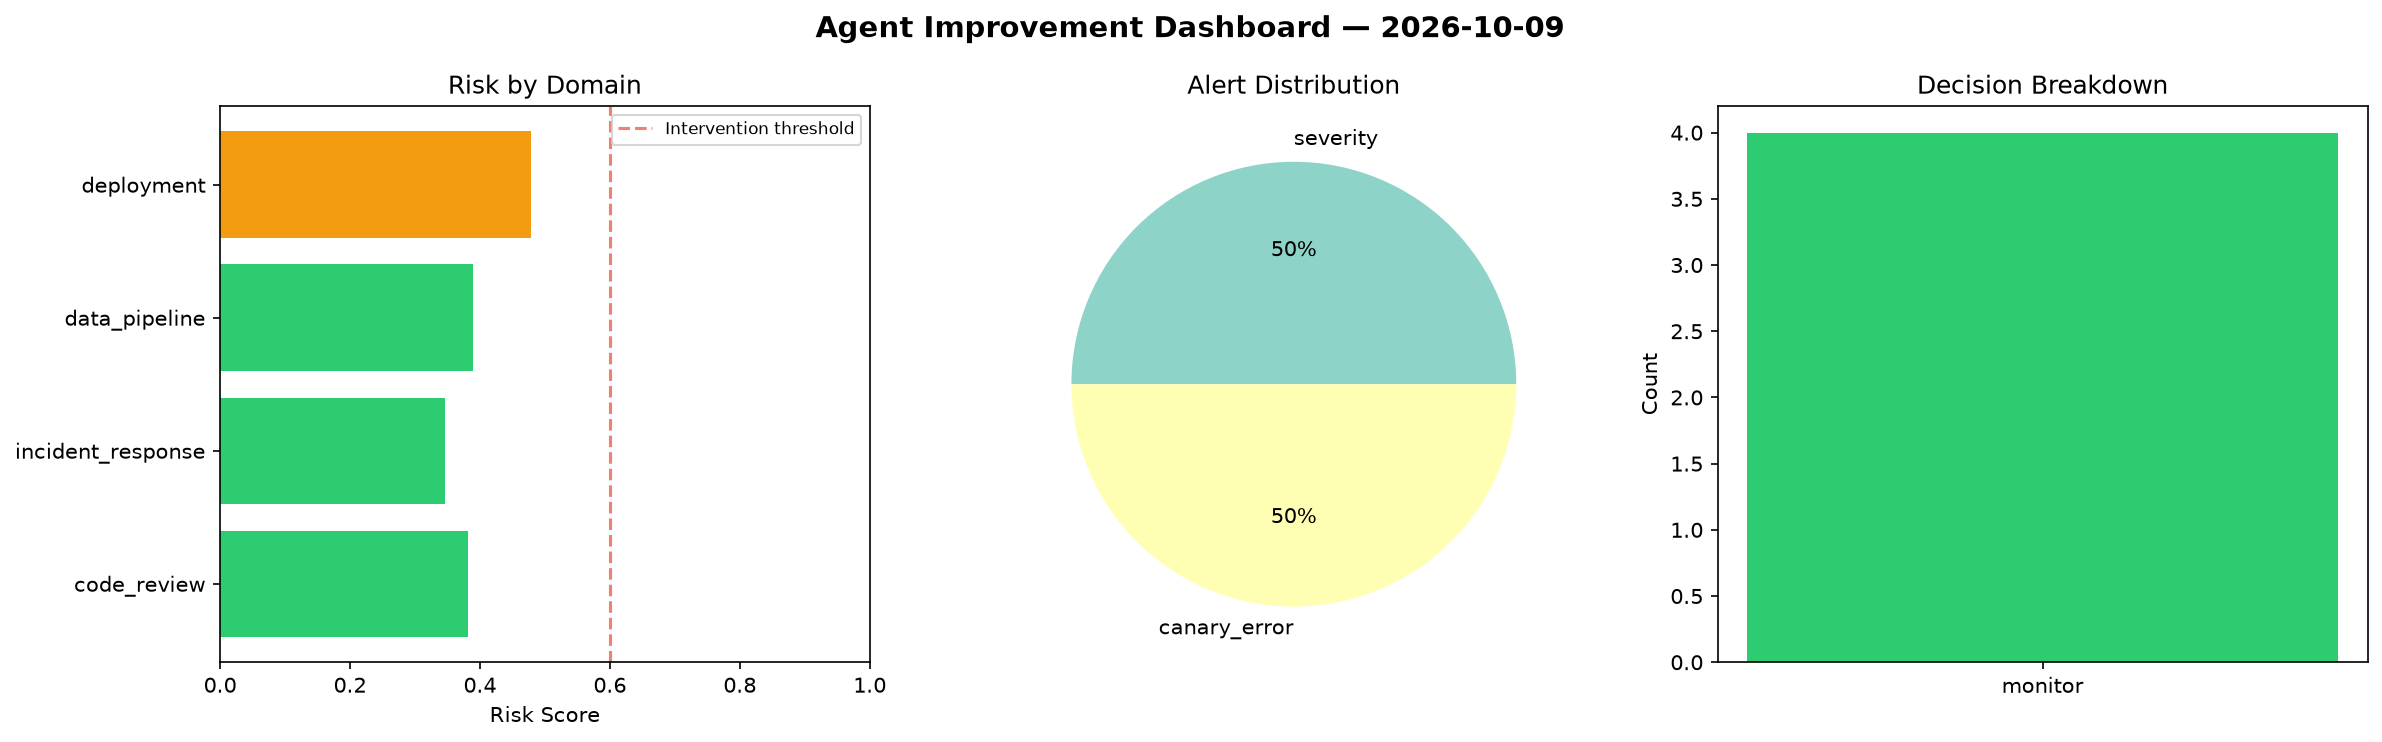
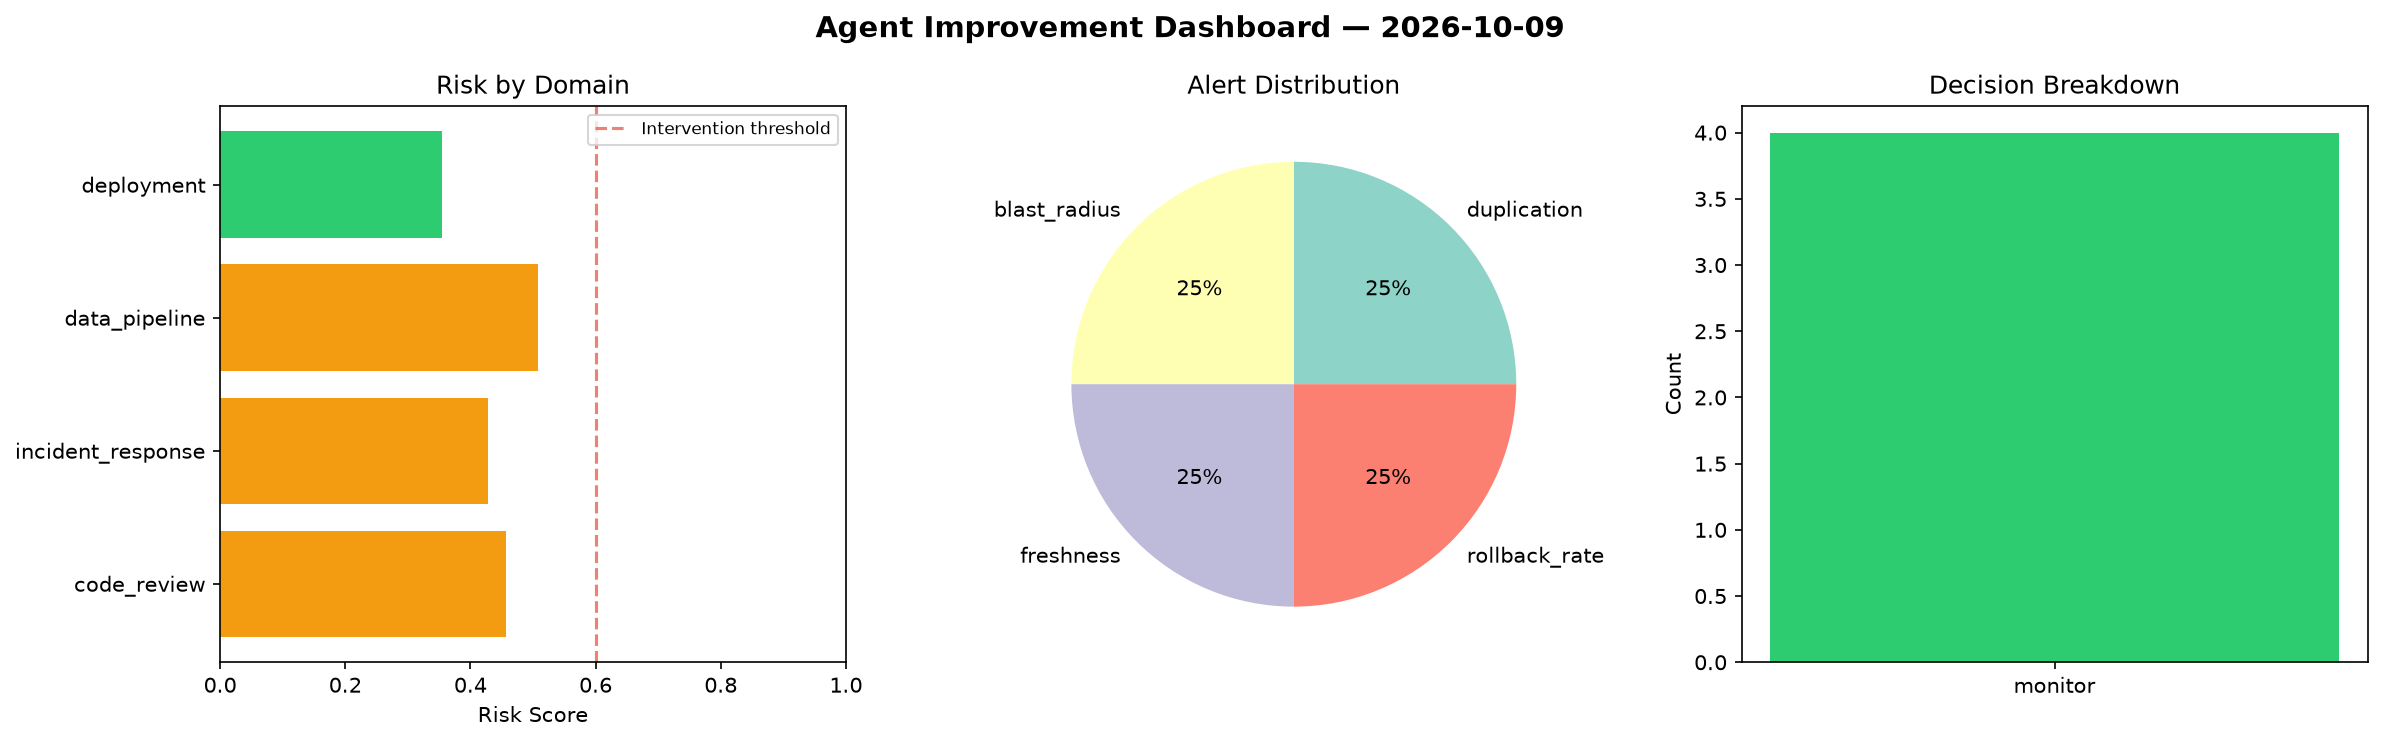
agent-improvement: daily cycle 2026-10-09T15:18

diff --git a/logs/2026-10-09.md b/logs/2026-10-09.md
@@ -1,6 +1,6 @@
 # Agent Improvement Report — 2026-10-09
 
-**Cycle ID:** `62b550a1` | **Avg Risk:** 0.3987 | **Interventions:** 0/4
+**Cycle ID:** `4e8301a3` | **Avg Risk:** 0.4368 | **Interventions:** 0/4
 
 ![Dashboard](2026-10-09_dashboard.png)
 
@@ -10,18 +10,18 @@
 
 | Domain | Risk Score | Decision | Alerts |
 |--------|-----------|----------|--------|
-| code_review | 0.381 | monitor | none |
-| incident_response | 0.3458 | monitor | severity |
-| data_pipeline | 0.3892 | monitor | none |
-| deployment | 0.4788 | monitor | canary_error |
+| code_review | 0.4562 | monitor | duplication |
+| incident_response | 0.4281 | monitor | blast_radius |
+| data_pipeline | 0.5079 | monitor | freshness |
+| deployment | 0.3549 | monitor | rollback_rate |
 
 ## Delta vs Yesterday
 
 | Domain | Today | Yesterday | Change |
 |--------|-------|-----------|--------|
-| code_review | 0.381 | 0.1752 | 📈 117.5% |
-| incident_response | 0.3458 | 0.3717 | 📉 -7.0% |
-| data_pipeline | 0.3892 | 0.2699 | 📈 44.2% |
-| deployment | 0.4788 | 0.5613 | 📉 -14.7% |
+| code_review | 0.4562 | 0.1752 | 📈 160.4% |
+| incident_response | 0.4281 | 0.3717 | 📈 15.2% |
+| data_pipeline | 0.5079 | 0.2699 | 📈 88.2% |
+| deployment | 0.3549 | 0.5613 | 📉 -36.8% |
 
-**Refinement:** `{'adjustment': 'tighten_thresholds', 'trend': 'degrading', 'window': 4}`
+**Refinement:** `{'adjustment': 'maintain', 'trend': 'improving', 'window': 4}`
